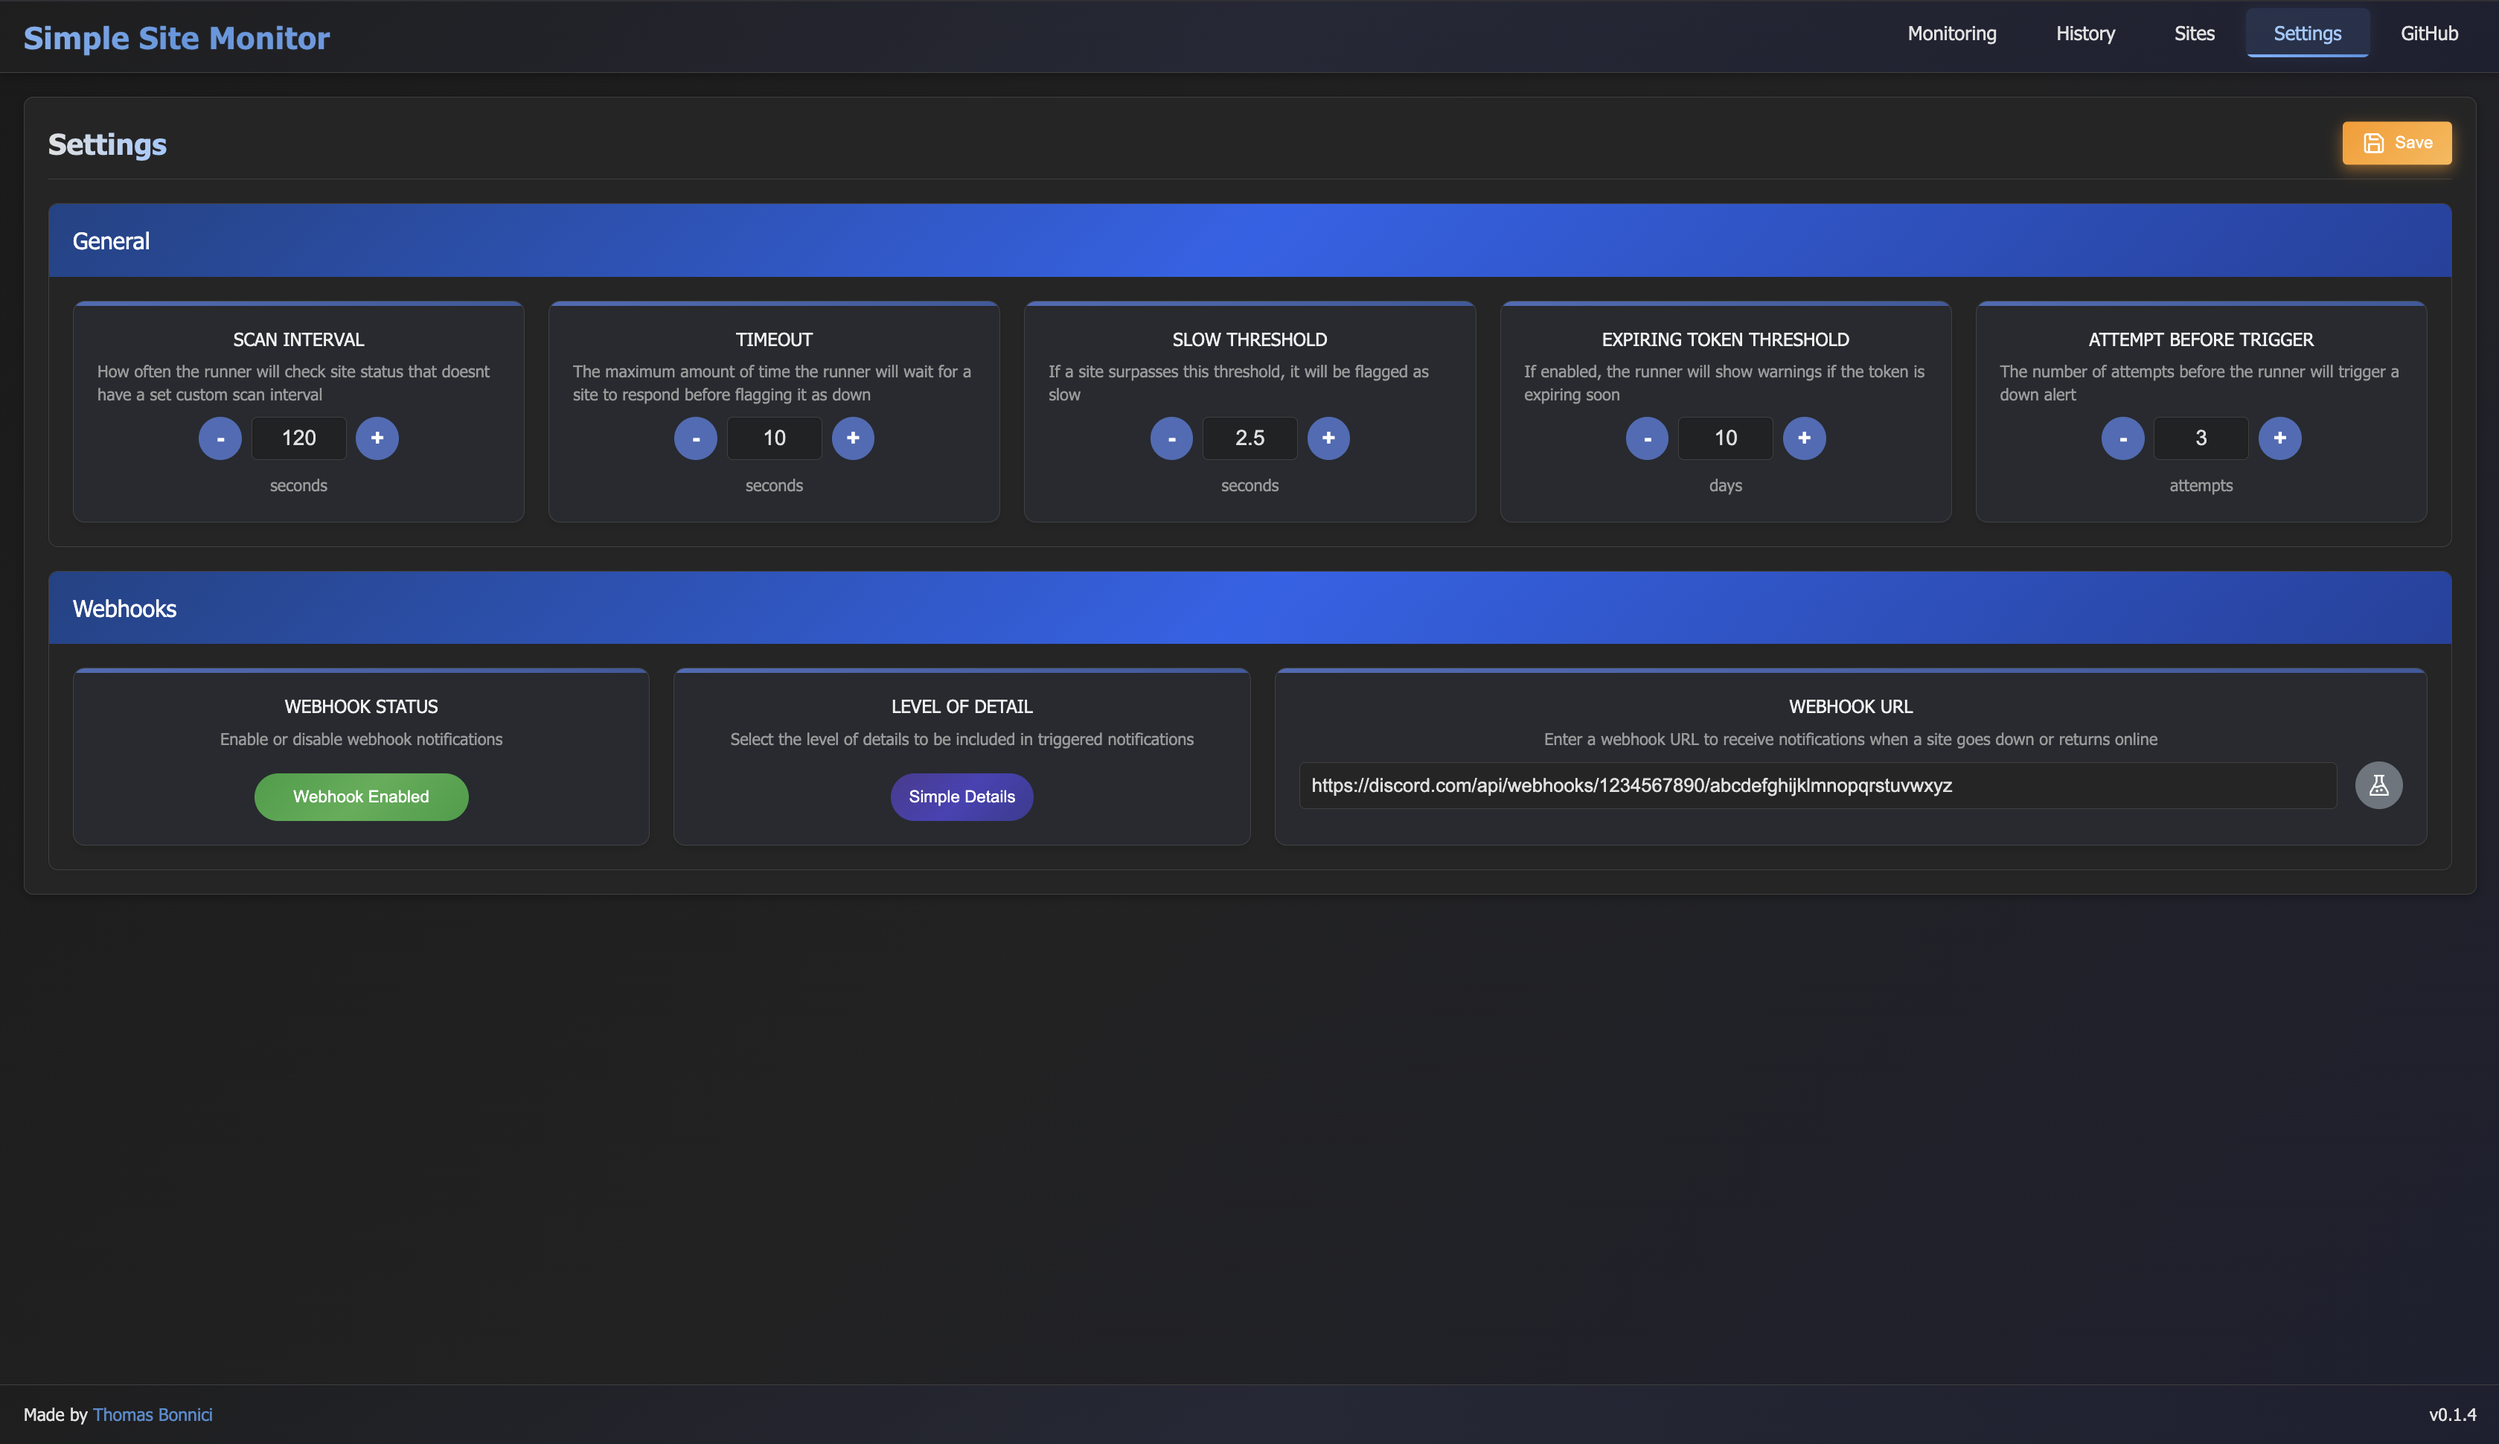
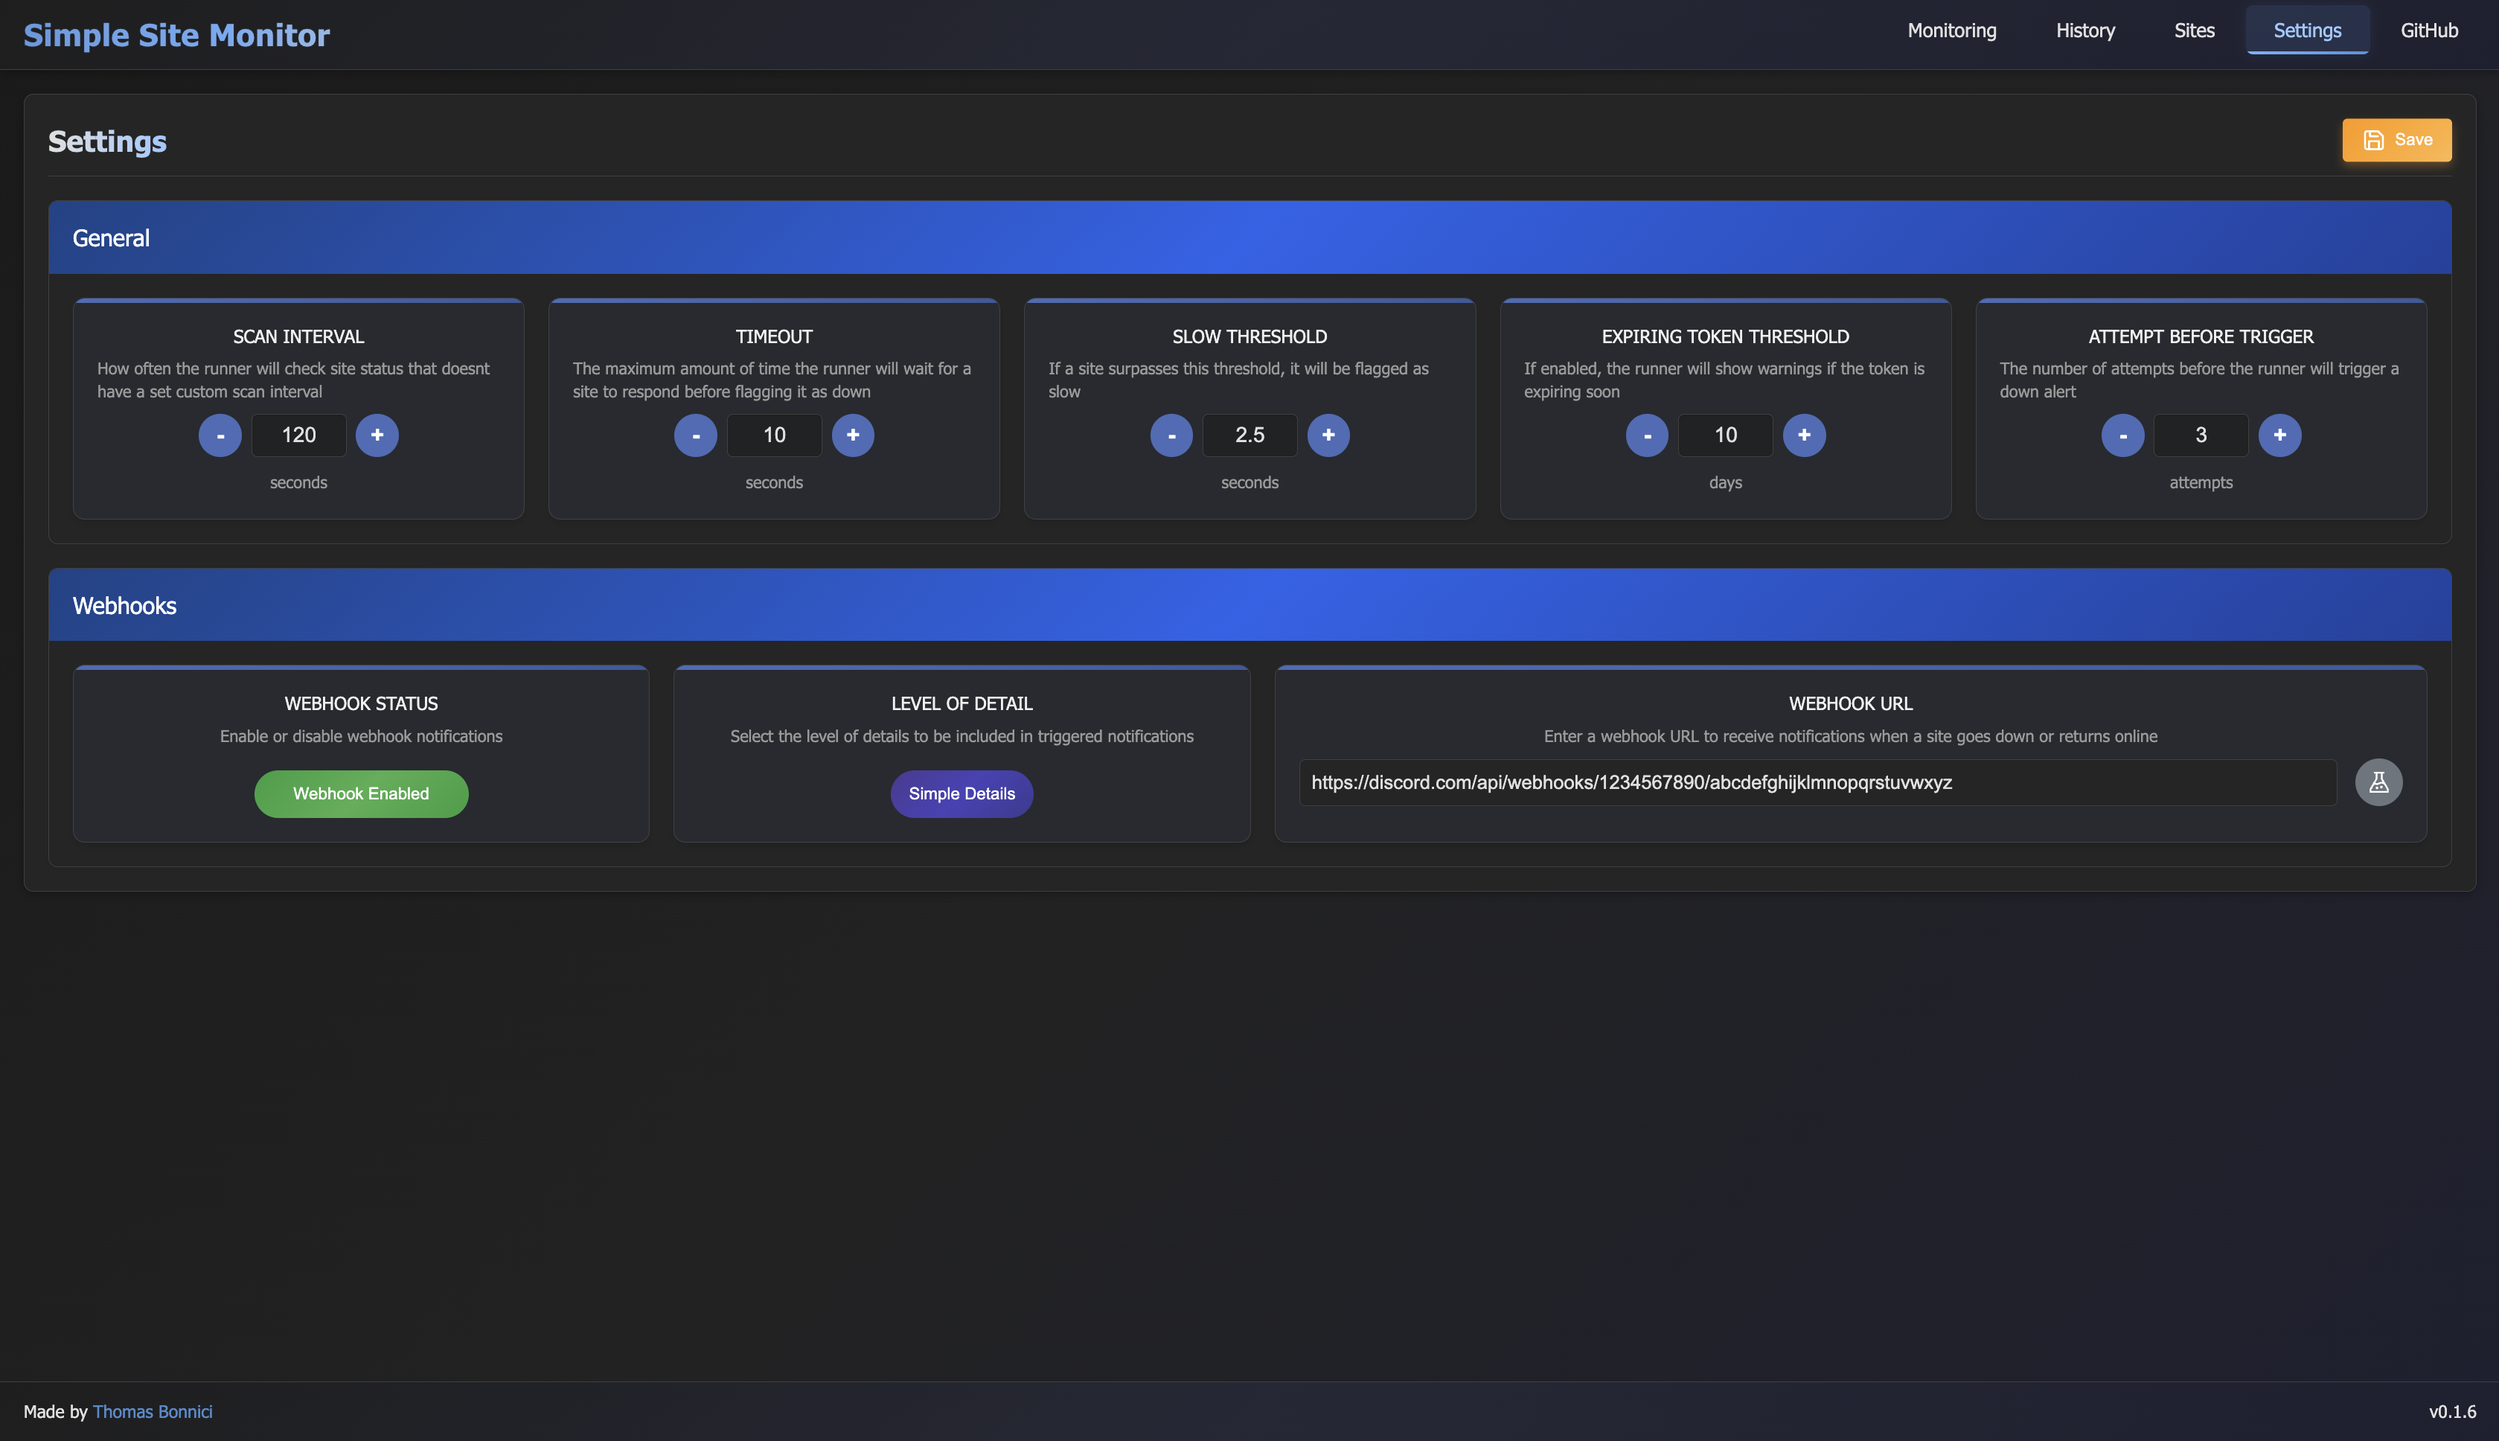
Version control and readme update for v0.1.6

diff --git a/templates/layout.html b/templates/layout.html
@@ -27,7 +27,7 @@
         </main>
         <footer>
             <p class="author">Made by <a href="https://thomas.bonnici.xyz" target="_blank">Thomas Bonnici</a></p>
-            <p class="version">v0.1.5</p>
+            <p class="version">v0.1.6</p>
         </footer>
     </div>
     

diff --git a/main.py b/main.py
@@ -7,7 +7,7 @@ import models.models as models
 app = FastAPI(
     title="Simple Site Monitor",
     description="A simple site monitor for monitoring website availability and performance",
-    version="0.1.5"
+    version="0.1.6"
 )
 
 models.Base.metadata.create_all(bind=engine)

diff --git a/README.md b/README.md
@@ -2,7 +2,7 @@
 
 A robust web application for monitoring website uptime, performance, and SSL certificate expiration. Simple Site Monitor provides an easy-to-use dashboard to track the health of your websites in real-time.
 
-![Dashboard](screenshot_1.png)
+![Dashboard](screenshot_0.png)
 
 ## Features
 

diff --git a/changelog.md b/changelog.md
@@ -1,5 +1,10 @@
 # Simple Site Monitor
 
+## v0.1.6 - Frontend Imrpovement
+### UI
+- [#35] UI improvements - reddit fixup edition
+
+
 ## v0.1.5 - History Page Beef Up
 ### UI
 - [#14] Added `Export` button yp History page
